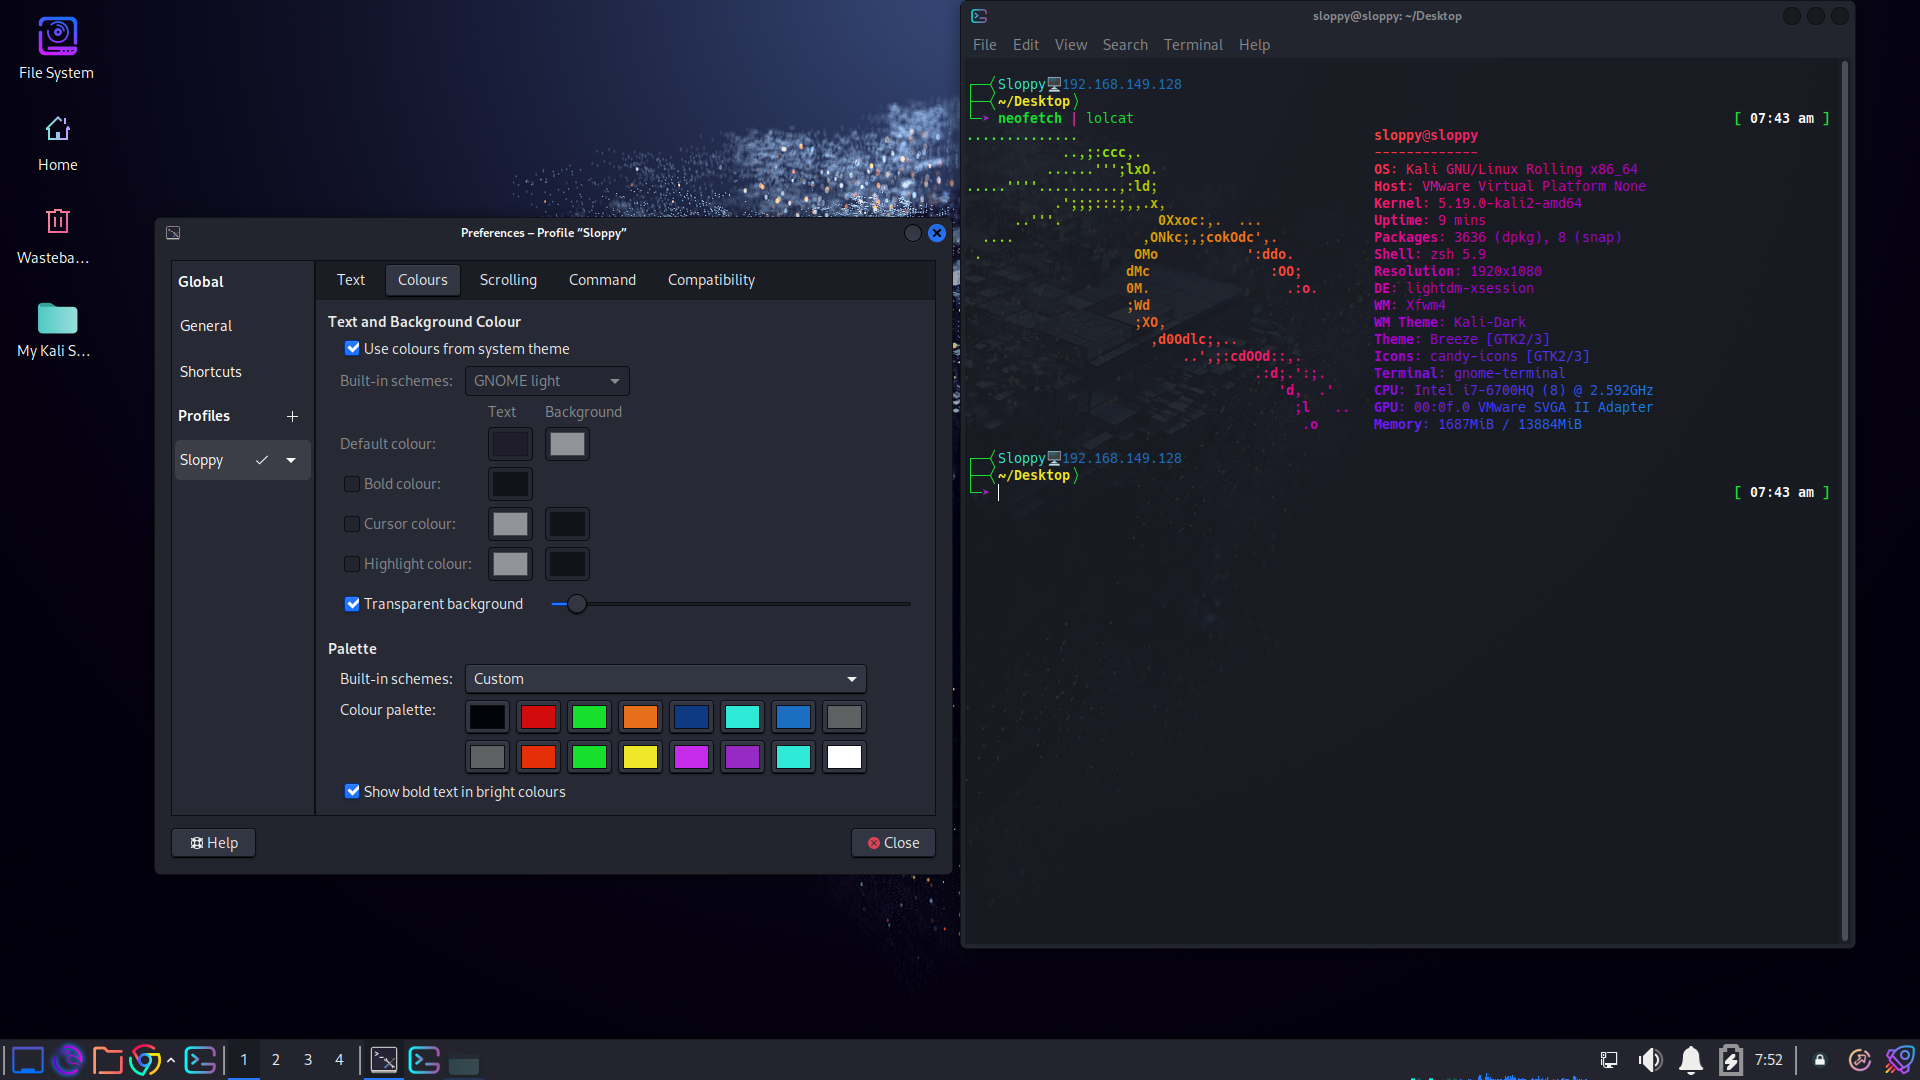
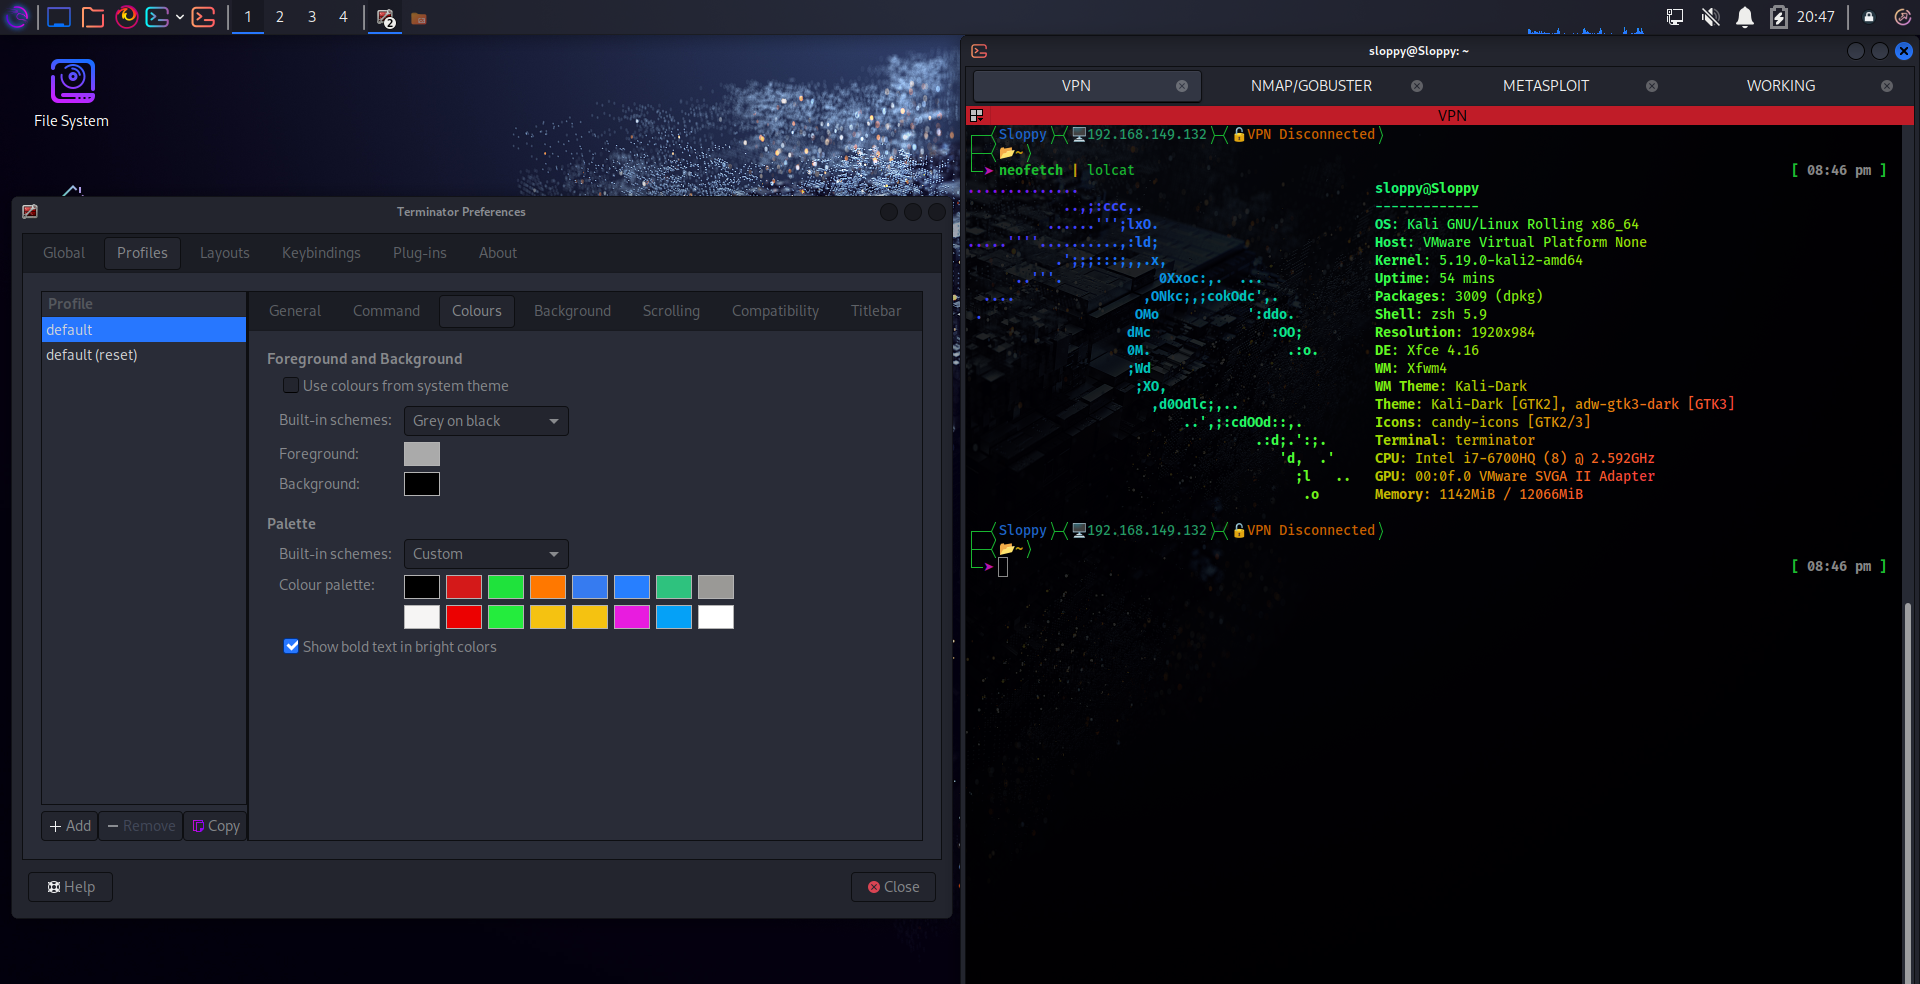
Update

diff --git a/Kali-Linux-Setup/README.md b/Kali-Linux-Setup/README.md
@@ -1,0 +1,27 @@
+# Fresh Kali Setup
+
+## Before we set up lets make sure we are fully up-to-date
+~~~
+Sudo apt update
+Sudo apt full-upgrade -y
+~~~
+# Terminal/zsh
+~~~
+sudo apt install terminator
+Copy zshrc config
+Copy Terminator config
+~~~
+# GUI
+~~~
+Set new wallpaper
+Set icons - candy-icons
+sudo apt install neofetch
+sudo apt install lolcat
+~~~
+# Addiontal Apps
+~~~
+sudo apt install gbpytop
+Install foxy proxy on firefox
+Install Wappalazyer on firefox
+~~~
+
